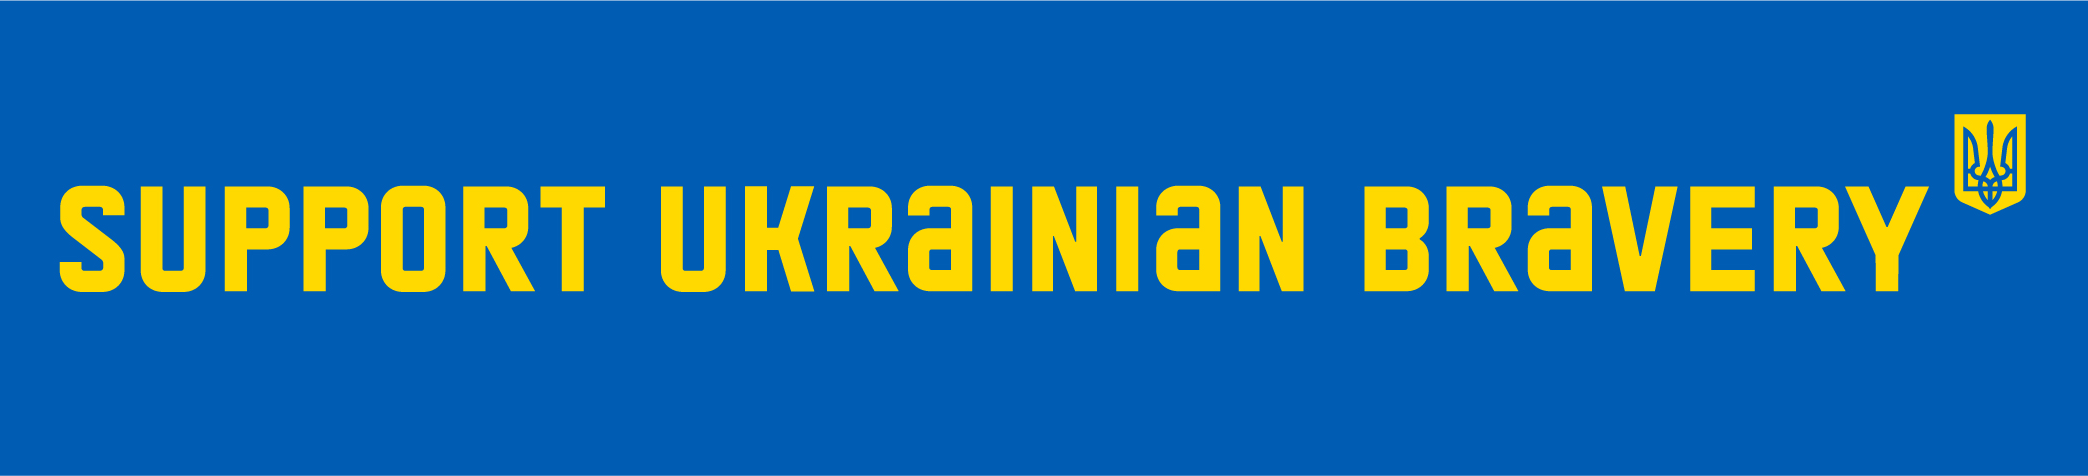
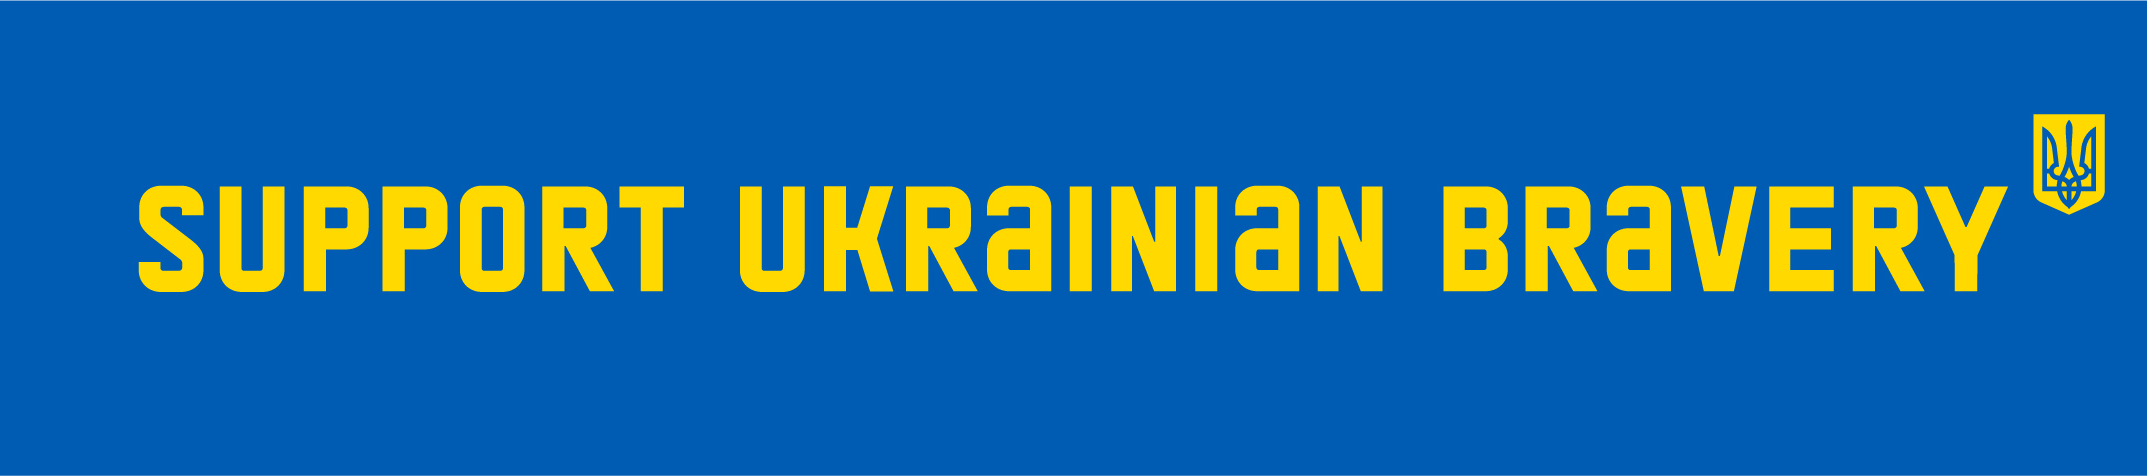
Updated image

Changed region(s): [[0.0311, 0.2353, 0.9962, 0.6176]]

diff --git a/components/PageHead.tsx b/components/PageHead.tsx
@@ -50,7 +50,7 @@ export const PageHead: React.FC<
       <meta name='twitter:image' content={socialImageUrl} />
       <meta property="og:image" content={socialImageUrl} />
       <meta property="og:image:type" content="image/png" />
-      <meta property="og:image:width" content="2088" />
+      <meta property="og:image:width" content="2147" />
       <meta property="og:image:height" content="476" />
 
       {url && (
